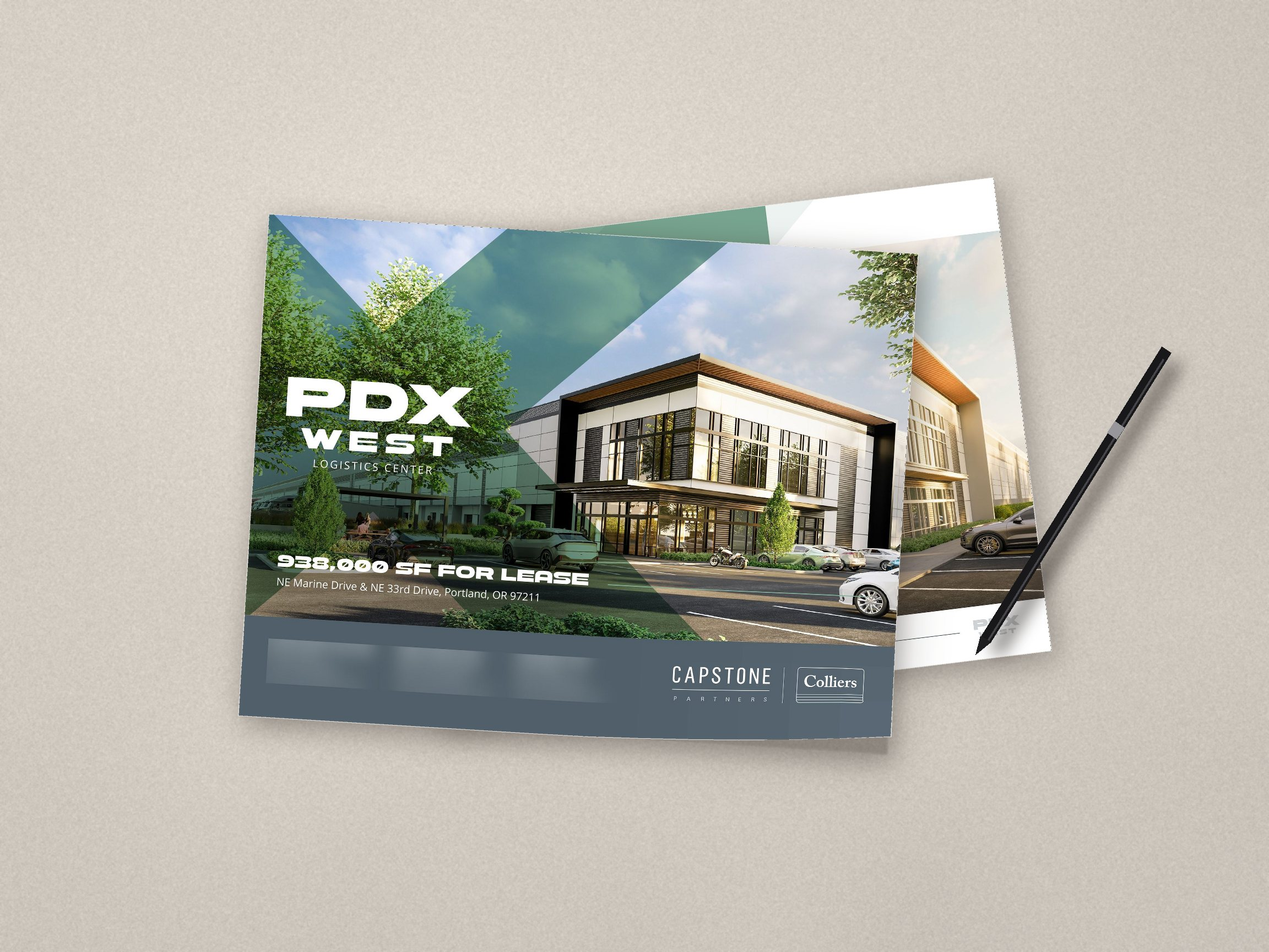
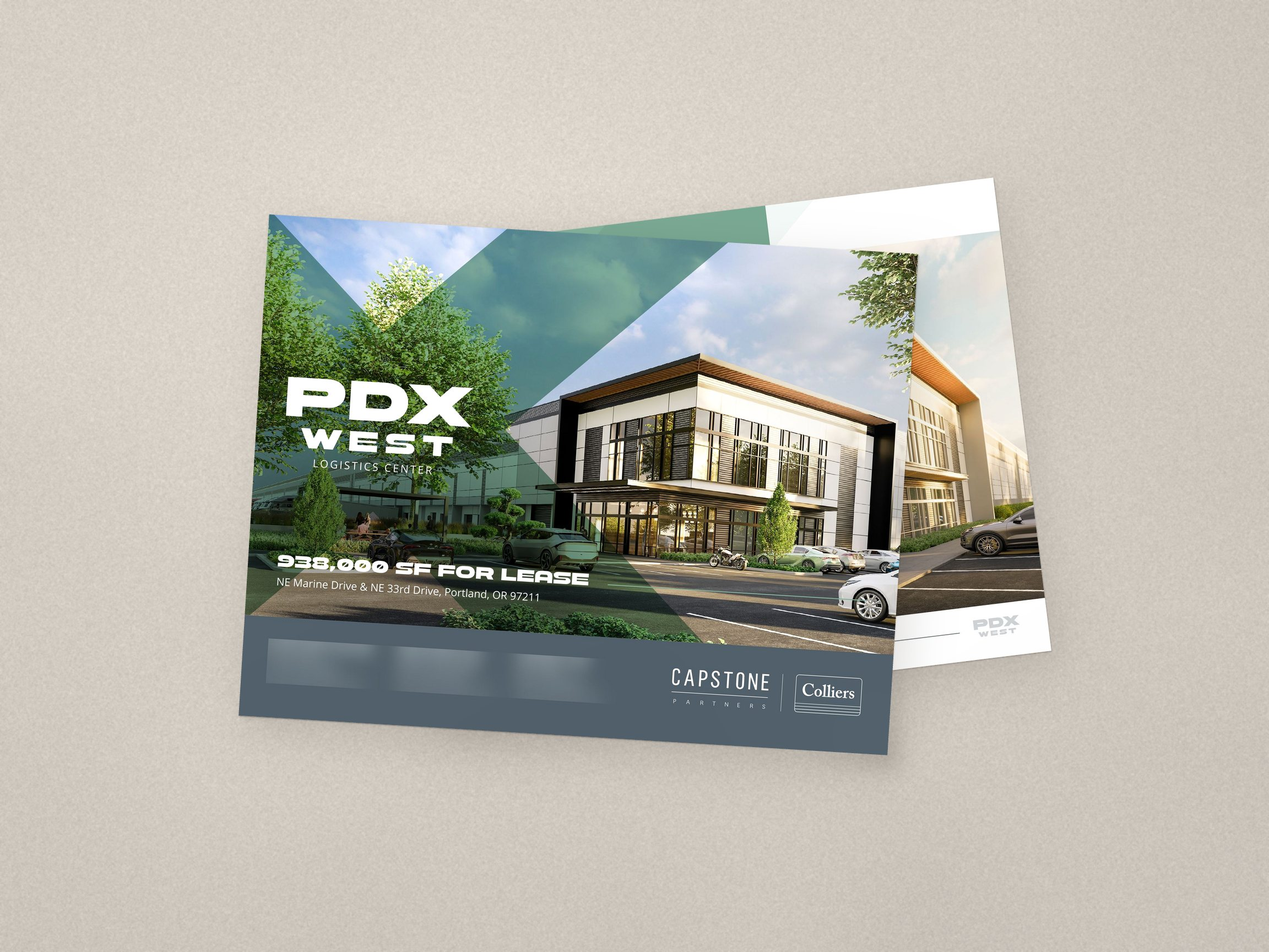
PDX West mockups: 4x supersampled edge-clean sheets, layered multiply shadows, pen removed

diff --git a/_src/flyer_mockups.py b/_src/flyer_mockups.py
@@ -28,71 +28,70 @@ def rect(cx, cy, w, ang):
     pts = [(-w / 2, -h / 2), (w / 2, -h / 2), (w / 2, h / 2), (-w / 2, h / 2)]
     return [(cx + x * c - y * s, cy + x * s + y * c) for x, y in pts]
 
-def place(cv, src, corners, lift_corner=None, lift=0.0, shadow=1.0, N=14):
-    """Lay sheet `src` on canvas `cv` at `corners` (TL,TR,BR,BL). lift_corner 0..3 curls that corner up by `lift` px."""
-    sw, sh = src.size
-    P = [np.array(p, float) for p in corners]
-    cu = [(0, 0), (1, 0), (1, 1), (0, 1)]
-    def flat(u, v): return (1 - u) * (1 - v) * P[0] + u * (1 - v) * P[1] + u * v * P[2] + (1 - u) * v * P[3]
-    def f(u, v):
-        if lift_corner is None: return 0.0
-        cx, cy = cu[lift_corner]; d = math.hypot(u - cx, v - cy) / 0.55
-        return max(0.0, 1 - d) ** 2
-    up = np.array([0.18, -1.0])
-    def pos(u, v): return flat(u, v) + up * lift * f(u, v)
-    # shadow: flat footprint + extra soft shadow under the lifted area
-    sm = Image.new('L', (W, H), 0); dr = ImageDraw.Draw(sm)
-    outline = [tuple(pos(u, 0)) for u in np.linspace(0, 1, N)] + [tuple(pos(1, v)) for v in np.linspace(0, 1, N)] + \
-              [tuple(pos(u, 1)) for u in np.linspace(1, 0, N)] + [tuple(pos(0, v)) for v in np.linspace(1, 0, N)]
-    fl = [flat(*c) for c in cu]
-    dr.polygon([(x + 10, y + 14) for x, y in fl], fill=int(120 * shadow))
-    sm = sm.filter(ImageFilter.GaussianBlur(26))
-    if lift_corner is not None and lift > 0:
-        s2 = Image.new('L', (W, H), 0)
-        cx, cy = cu[lift_corner]
-        pts = [tuple(flat(cx + (0.5 - cx) * a, cy + (0.5 - cy) * b) + np.array([lift * .35, lift * .25])) for a, b in [(0, 0), (0.8, 0), (0.8, 0.8), (0, 0.8)]]
-        ImageDraw.Draw(s2).polygon(pts, fill=int(70 * shadow)); s2 = s2.filter(ImageFilter.GaussianBlur(40))
-        sm = Image.fromarray(np.maximum(np.array(sm), np.array(s2)))
-    contact = Image.new('L', (W, H), 0); ImageDraw.Draw(contact).polygon([(x + 2, y + 3) for x, y in fl], fill=int(110 * shadow))
-    sm = Image.fromarray(np.maximum(np.array(sm), np.array(contact.filter(ImageFilter.GaussianBlur(4)))))
-    cv.paste(Image.new('RGB', (W, H), (52, 44, 38)), (0, 0), sm)
-    # sheet, cell by cell, onto a layer clipped by the exact outline (2x supersampled for a clean edge)
-    layer = Image.new('RGB', (W, H), (240, 238, 234))
-    for i in range(N - 1):
-        for j in range(N - 1):
-            u0, u1 = i / (N - 1), (i + 1) / (N - 1); v0, v1 = j / (N - 1), (j + 1) / (N - 1)
-            d = [pos(u0, v0), pos(u1, v0), pos(u1, v1), pos(u0, v1)]
-            s = [(u0 * sw, v0 * sh), (u1 * sw, v0 * sh), (u1 * sw, v1 * sh), (u0 * sw, v1 * sh)]
-            bx0, by0 = int(min(p[0] for p in d)) - 2, int(min(p[1] for p in d)) - 2
-            bx1, by1 = int(max(p[0] for p in d)) + 3, int(max(p[1] for p in d)) + 3
-            loc = [(p[0] - bx0, p[1] - by0) for p in d]
-            tile = src.transform((bx1 - bx0, by1 - by0), Image.PERSPECTIVE, coeffs(loc, s), Image.BICUBIC)
-            k = (f(u0, v0) + f(u1, v1)) / 2          # lifted areas catch a little more light
-            if k > 0:
-                tile = Image.fromarray(np.clip(np.array(tile).astype(float) * (1 + 0.06 * k) + 6 * k, 0, 255).astype(np.uint8))
-            m = Image.new('L', tile.size, 0)
-            c = np.mean(loc, axis=0); ImageDraw.Draw(m).polygon([tuple(c + (np.array(p) - c) * 1.06) for p in loc], fill=255)
-            layer.paste(tile, (bx0, by0), m)
-    def omask(grow):
-        m = Image.new('L', (W * 2, H * 2), 0); c = np.mean(outline, axis=0)
-        ImageDraw.Draw(m).polygon([tuple(2 * (c + (np.array(p) - c) * (1 + grow))) for p in outline], fill=255)
-        return m.resize((W, H), Image.LANCZOS)
-    cv.paste(Image.new('RGB', (W, H), (236, 234, 229)), (0, 0), omask(0.0016))   # paper-thin rim
-    cv.paste(layer, (0, 0), omask(-0.0004))
-    return cv
+SS = 4   # supersampling for the sheet artwork and every mask
 
-def pen(cv, x, y, ang, L=620):
-    a = math.radians(ang); dx, dy = math.cos(a), math.sin(a); nx, ny = -dy, dx
-    sm = Image.new('L', (W, H), 0)
-    ImageDraw.Draw(sm).line([(x + 18, y + 24), (x + dx * L + 18, y + dy * L + 24)], fill=150, width=26)
-    cv.paste(Image.new('RGB', (W, H), (40, 34, 30)), (0, 0), sm.filter(ImageFilter.GaussianBlur(14)))
-    body = Image.new('L', (W, H), 0); d = ImageDraw.Draw(body)
-    d.line([(x, y), (x + dx * L, y + dy * L)], fill=255, width=22)
-    cv.paste(Image.new('RGB', (W, H), (24, 24, 26)), (0, 0), body)
-    d2 = ImageDraw.Draw(cv)
-    d2.line([(x + nx * 5, y + ny * 5), (x + dx * L * .97 + nx * 5, y + dy * L * .97 + ny * 5)], fill=(70, 70, 74), width=3)   # highlight
-    d2.line([(x + dx * L * .7, y + dy * L * .7), (x + dx * L * .74, y + dy * L * .74)], fill=(150, 150, 155), width=22)        # clip band
-    tip = (x - dx * 34, y - dy * 34); d2.polygon([(x + nx * 11, y + ny * 11), (x - nx * 11, y - ny * 11), tip], fill=(30, 30, 32))
+def _poly_mask(pts, size, scale=2):
+    m = Image.new('L', (size[0] * scale, size[1] * scale), 0)
+    ImageDraw.Draw(m).polygon([(x * scale, y * scale) for x, y in pts], fill=255)
+    return np.asarray(m.resize(size, Image.BOX), np.float32) / 255
+
+def _multiply(cv, a, tint=(0.40, 0.37, 0.34)):
+    """darken the canvas where alpha a>0 (a multiply shadow keeps the surface texture visible)"""
+    c = np.asarray(cv, np.float32)
+    c = c * (1 - a[..., None]) + c * np.array(tint, np.float32) * a[..., None]
+    cv.paste(Image.fromarray(np.clip(c, 0, 255).astype(np.uint8)))
+
+def place(cv, src, corners, lift_corner=None, lift=0.0, shadow=1.0):
+    """Lay a flat printed sheet `src` on canvas `cv` at `corners` (TL,TR,BR,BL).
+    The sheet is one exact perspective warp rendered at SS x and downsampled, with an edge-replicated source so the
+    anti-aliased edge carries the artwork's own colour (no fringe, no rim). Light comes from the top-left.
+    lift_corner (0..3) suggests a slightly raised corner through light and shadow only (no geometry seams)."""
+    W_, H_ = cv.size
+    P = np.array(corners, float)
+    # --- shadows: contact, mid and ambient layers, offset away from the light
+    a = np.zeros((H_, W_), np.float32)
+    base = _poly_mask(P, (W_, H_))
+    lifted = None
+    if lift_corner is not None and lift > 0:
+        yy, xx = np.mgrid[0:H_, 0:W_]
+        diag = np.hypot(*(P[2] - P[0]))
+        cx, cy = P[lift_corner]
+        lifted = np.clip(1 - np.hypot(xx - cx, yy - cy) / (0.42 * diag), 0, 1) ** 2
+    for off, blur, k in [((0, 0), 2.5, 0.20), ((1.2, 2.0), 1.6, 0.55), ((5, 9), 9, 0.22), ((16, 26), 38, 0.20)]:
+        m = Image.fromarray((base * 255).astype(np.uint8)).transform((W_, H_), Image.AFFINE, (1, 0, -off[0], 0, 1, -off[1]), Image.BILINEAR)
+        m = np.asarray(m.filter(ImageFilter.GaussianBlur(blur)), np.float32) / 255
+        if lifted is not None and blur < 5: m = m * (1 - 0.85 * lifted)      # the raised corner does not touch the table
+        a = np.maximum(a, m * k * shadow)
+    if lifted is not None:
+        o = lift * 0.9
+        m = Image.fromarray((base * 255).astype(np.uint8)).transform((W_, H_), Image.AFFINE, (1, 0, -o * .7, 0, 1, -o), Image.BILINEAR)
+        m = np.asarray(m.filter(ImageFilter.GaussianBlur(22)), np.float32) / 255 * lifted
+        a = np.maximum(a, m * 0.30 * shadow)
+    a = a * (1 - base)          # shadow only outside the sheet; the sheet itself is pasted on top
+    _multiply(cv, a)
+    # --- the sheet
+    x0, y0 = np.floor(P.min(0)).astype(int) - 2; x1, y1 = np.ceil(P.max(0)).astype(int) + 2
+    bw, bh = x1 - x0, y1 - y0
+    pad = 8
+    sp = Image.fromarray(np.pad(np.asarray(src.convert('RGB')), ((pad, pad), (pad, pad), (0, 0)), mode='edge'))
+    sw, sh = src.size
+    dst = [((x - x0) * SS, (y - y0) * SS) for x, y in P]
+    srcq = [(pad, pad), (pad + sw, pad), (pad + sw, pad + sh), (pad, pad + sh)]
+    hi = sp.transform((bw * SS, bh * SS), Image.PERSPECTIVE, coeffs(dst, srcq), Image.BICUBIC)
+    tile = np.asarray(hi.resize((bw, bh), Image.LANCZOS), np.float32)
+    m = Image.new('L', (bw * SS, bh * SS), 0); ImageDraw.Draw(m).polygon(dst, fill=255)
+    al = np.asarray(m.resize((bw, bh), Image.BOX), np.float32) / 255
+    # paper lighting: soft gradient from the top-left light, a touch of sheen on a raised corner
+    yy, xx = np.mgrid[y0:y1, x0:x1]
+    t = ((xx - P[:, 0].mean()) * 0.6 + (yy - P[:, 1].mean())) / np.hypot(bw, bh)
+    lightm = 1.02 - 0.05 * t
+    if lifted is not None:
+        lightm = lightm + 0.035 * lifted[y0:y1, x0:x1]
+    tile = np.clip(tile * lightm[..., None], 0, 255)
+    reg = np.asarray(cv, np.float32)[y0:y1, x0:x1]
+    out_ = reg * (1 - al[..., None]) + tile * al[..., None]
+    cv.paste(Image.fromarray(out_.astype(np.uint8)), (int(x0), int(y0)))
+    return cv
 
 def sheets(slug): return [Image.open(os.path.join(ROOT, 'assets', 'img', slug, 'sheets', f)).convert('RGB') for f in sorted(os.listdir(os.path.join(ROOT, 'assets', 'img', slug, 'sheets')))]
 
@@ -100,11 +99,10 @@ def out(im, slug, name): p = os.path.join(ROOT, 'assets', 'img', slug, name); im
 
 def pdx():
     S = sheets('pdx-west')
-    # hero: cover on top of the property-highlights sheet, pen at the side; content kept inside the central 16:9 band
+    # hero: cover on top of the property-highlights sheet; content kept inside the central 16:9 band
     cv = surface(seed=11, light=(0.35, 0.25))
     place(cv, S[1], rect(1300, 820, 1120, -7), shadow=.8)
     place(cv, S[0], rect(1050, 880, 1180, 3.5), lift_corner=2, lift=34)
-    pen(cv, 1790, 1160, -58)
     out(cv, 'pdx-west', 'hero.jpg')
     # card: Kress framing, single thin cover with a lifted corner and a second sheet peeking underneath
     k = W / 1024

diff --git a/AI-HANDOFF.md b/AI-HANDOFF.md
@@ -65,8 +65,8 @@ Read this first if you are an AI assistant (Claude, ChatGPT, Cursor, etc.) conti
 ## PDX West (Nov 20) — same sheet stack as Leftbank
 - Swatches: #76A48E Sage, #505F69 Slate, #374B4E Deep Slate, #ECF3F0 Mist, #FFFFFF White.
 - There is no signage for PDX West; it is a leasing flyer only. Don't mention signs or billboards in its copy or alt text.
-- Mockups are all self-made by `_src/flyer_mockups.py` (PIL mesh warp, lifted-corner curl, thin paper rim, soft shadows, procedural beige surface; no stock), from the already-blurred sheets:
-  - `hero.jpg`: the cover on top of the property-highlights sheet, with a pen, on beige. 2304×1728; the key content sits inside the 16:9 band that the hero crop shows.
+- Mockups are all self-made by `_src/flyer_mockups.py` from the already-blurred sheets, with no stock and no props. The pen was removed on Nov 20 because it looked fake. Each sheet is one exact perspective warp rendered at 4× and downsampled with LANCZOS. The source is edge-padded, so the anti-aliased edge keeps the artwork's own colour: no rim, fringe or seams. Shadows are multiply layers (ambient, contact and two soft offsets, with the light from the top-left). A raised corner is suggested only through light and shadow. The beige surface is procedural.
+  - `hero.jpg`: the cover on top of the property-highlights sheet, on beige. 2304×1728; the key content sits inside the 16:9 band that the hero crop shows.
   - `mock_spread.jpg` (The printed piece): three inside sheets (site plan, submarket, building) fanned out.
   - `card.jpg`: Kress framing; one thin cover sheet with a lifted corner and a second sheet peeking out underneath.
 - The printed piece: mock_spread + card, then the flat front sheet (s01) and back sheet (s09).
